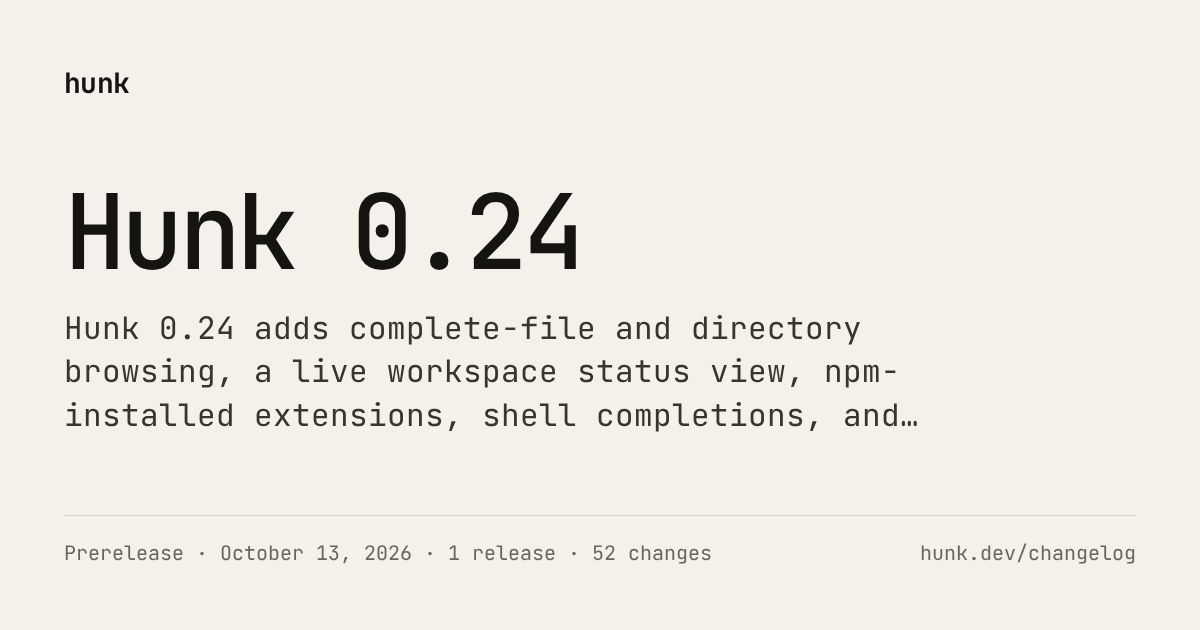
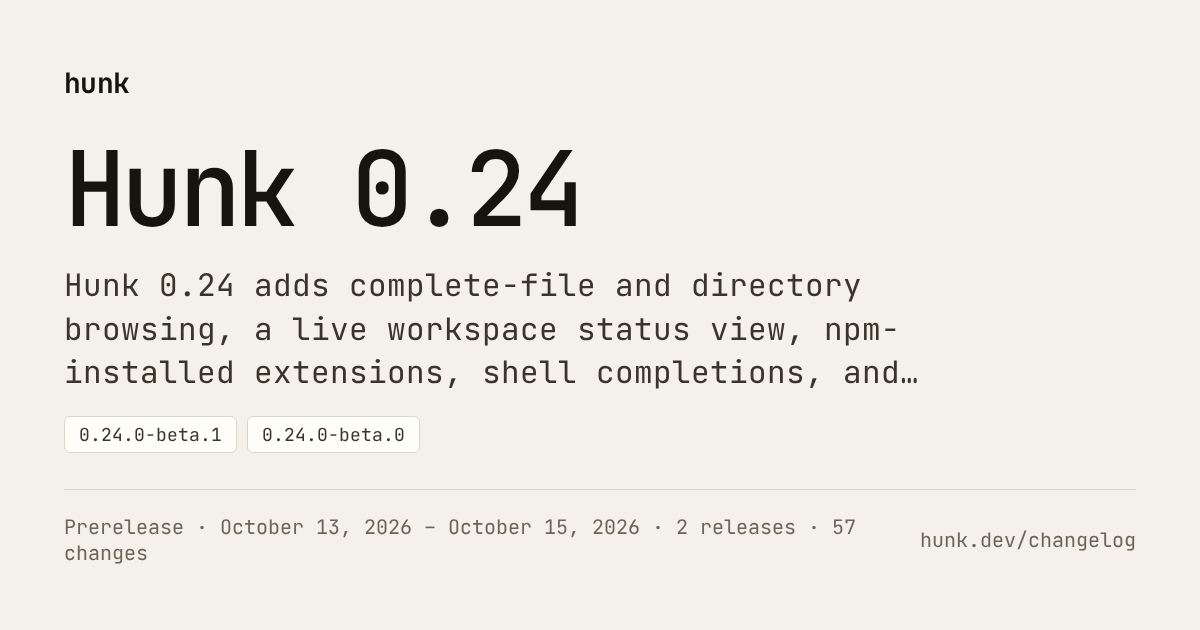
docs(release): publish 0.24.0-beta.1 notes (#1194)

diff --git a/website/src/content/docs/changelog/0.24.md b/website/src/content/docs/changelog/0.24.md
@@ -11,7 +11,7 @@ head:
   - tag: meta
     attrs:
       property: og:image:alt
-      content: "Hunk 0.24 release notes — Prerelease · October 13, 2026 · 1 release · 52 changes"
+      content: "Hunk 0.24 release notes — Prerelease · October 13, 2026 – October 15, 2026 · 2 releases · 57 changes"
   - tag: meta
     attrs:
       name: twitter:image
@@ -20,7 +20,7 @@ head:
 
 <!-- GENERATED by `bun run generate:changelog`. Edit CHANGELOG.md or website/releases/notes.json instead. -->
 
-Prerelease · October 13, 2026 · 1 release
+Prerelease · October 13, 2026 – October 15, 2026 · 2 releases
 
 Hunk 0.24 adds complete-file and directory browsing, a live workspace status view, npm-installed extensions, shell completions, and pane-aware automatic diff layout, while moving syntax highlighting off the review's main thread by default.
 
@@ -33,6 +33,20 @@ Hunk 0.24 adds complete-file and directory browsing, a live workspace status vie
 - [Review with an agent](/docs/agents/review-with-an-agent/)
 
 ## Releases in this series
+
+<a class="release-separator" id="v0-24-0-beta-1"></a>
+
+### 0.24.0-beta.1
+
+October 15, 2026
+
+#### Patch Changes
+
+- Show an empty-review message instead of claiming an active filter hid files when there are no changes to review. ([#1182](https://github.com/modem-dev/hunk/pull/1182))
+- The bundled `hunk-review` skill now tells agents that agent notes start hidden, `hunk gh --help` lists its options and token variables, and the hunk.dev docs add `hunk log` and `hunk gh` to the CLI reference and correct stale install, platform, pager, watch, Jujutsu, and extension details. ([#1186](https://github.com/modem-dev/hunk/pull/1186))
+- Reject nonempty patch input without recognizable file changes instead of silently opening an empty review. ([#1183](https://github.com/modem-dev/hunk/pull/1183))
+- Binary files can be selected again with next/previous file navigation (`.` and `,`) and by clicking them in the files pane. ([#1178](https://github.com/modem-dev/hunk/pull/1178))
+- Keep the selected file visible in the sidebar during held next-file or previous-file navigation and terminal resizing without snapping ordinary manual scrolling back to the selection. ([#1085](https://github.com/modem-dev/hunk/pull/1085))
 
 <a class="release-separator" id="v0-24-0-beta-0"></a>
 

diff --git a/website/src/content/docs/changelog/index.md b/website/src/content/docs/changelog/index.md
@@ -24,7 +24,7 @@ head:
 
 ## [Hunk 0.24](/changelog/0.24/)
 
-Prerelease · October 13, 2026 · 1 release · 52 changes
+Prerelease · October 13, 2026 – October 15, 2026 · 2 releases · 57 changes
 
 Hunk 0.24 adds complete-file and directory browsing, a live workspace status view, npm-installed extensions, shell completions, and pane-aware automatic diff layout, while moving syntax highlighting off the review's main thread by default.
 
